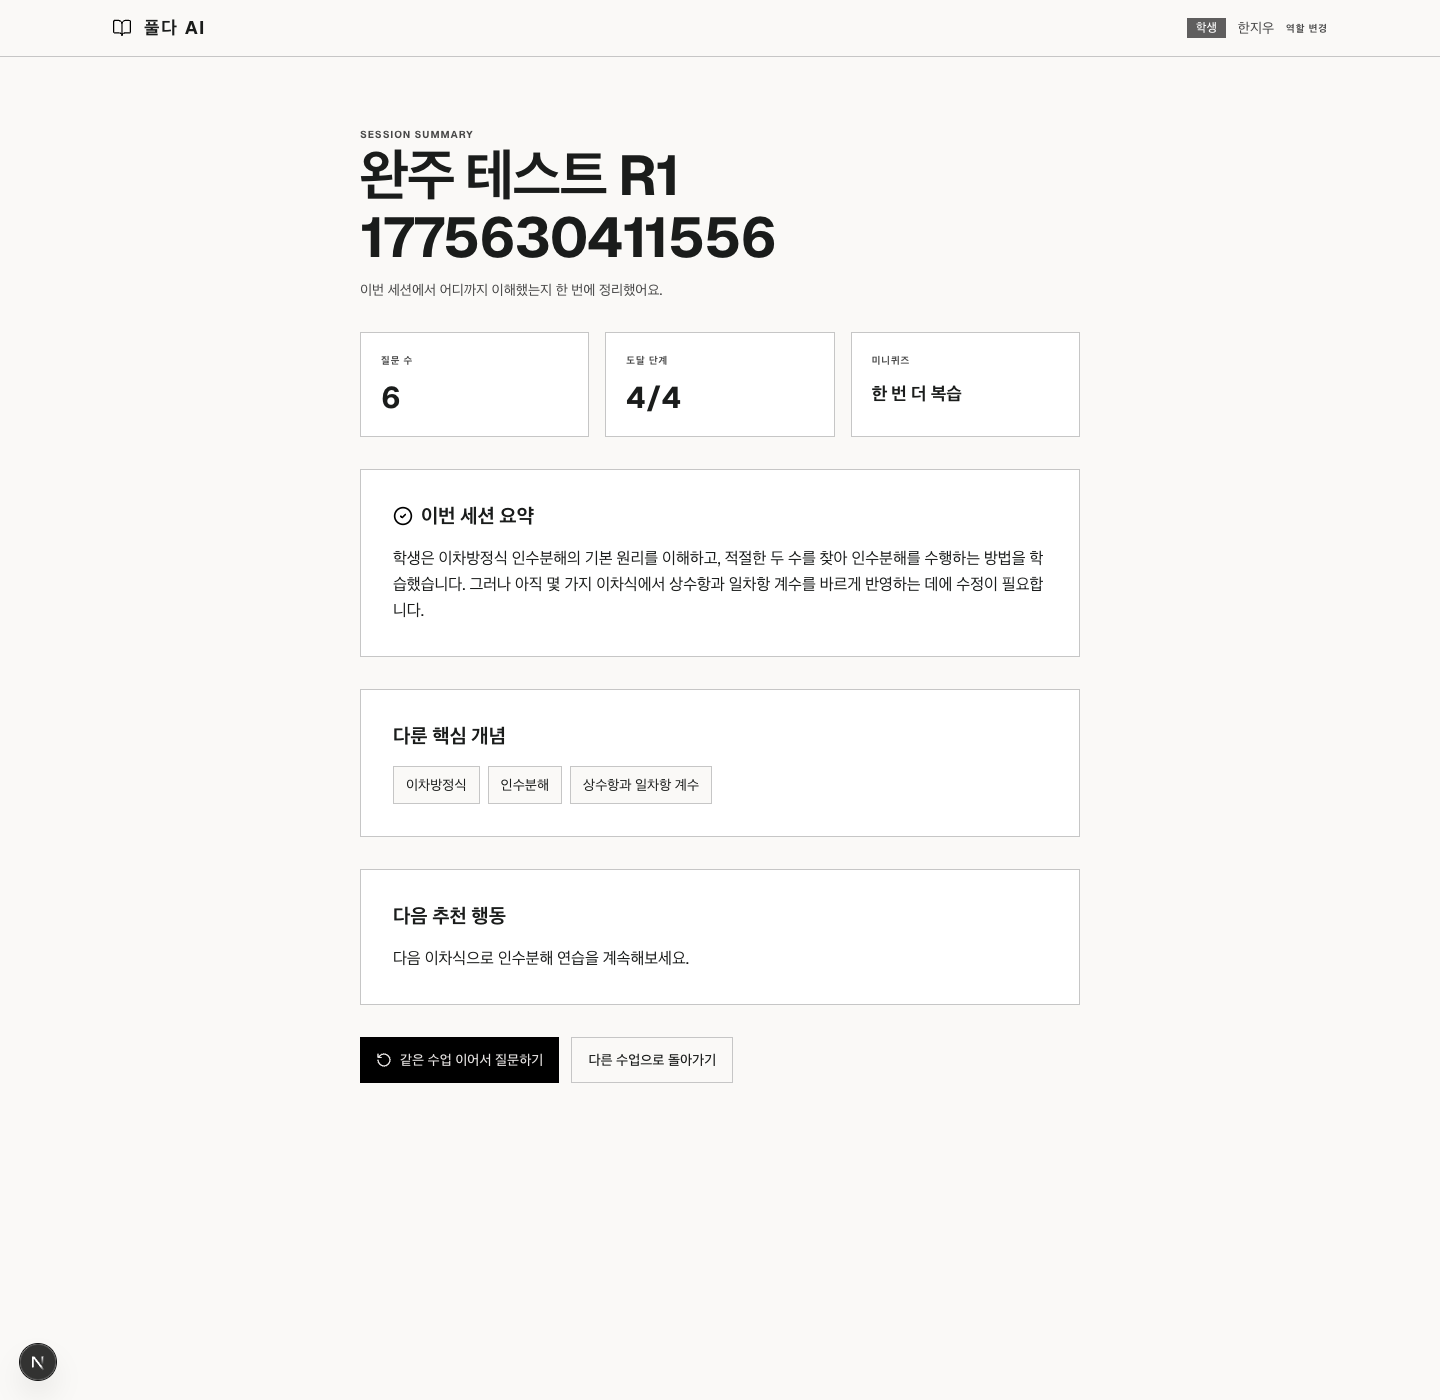
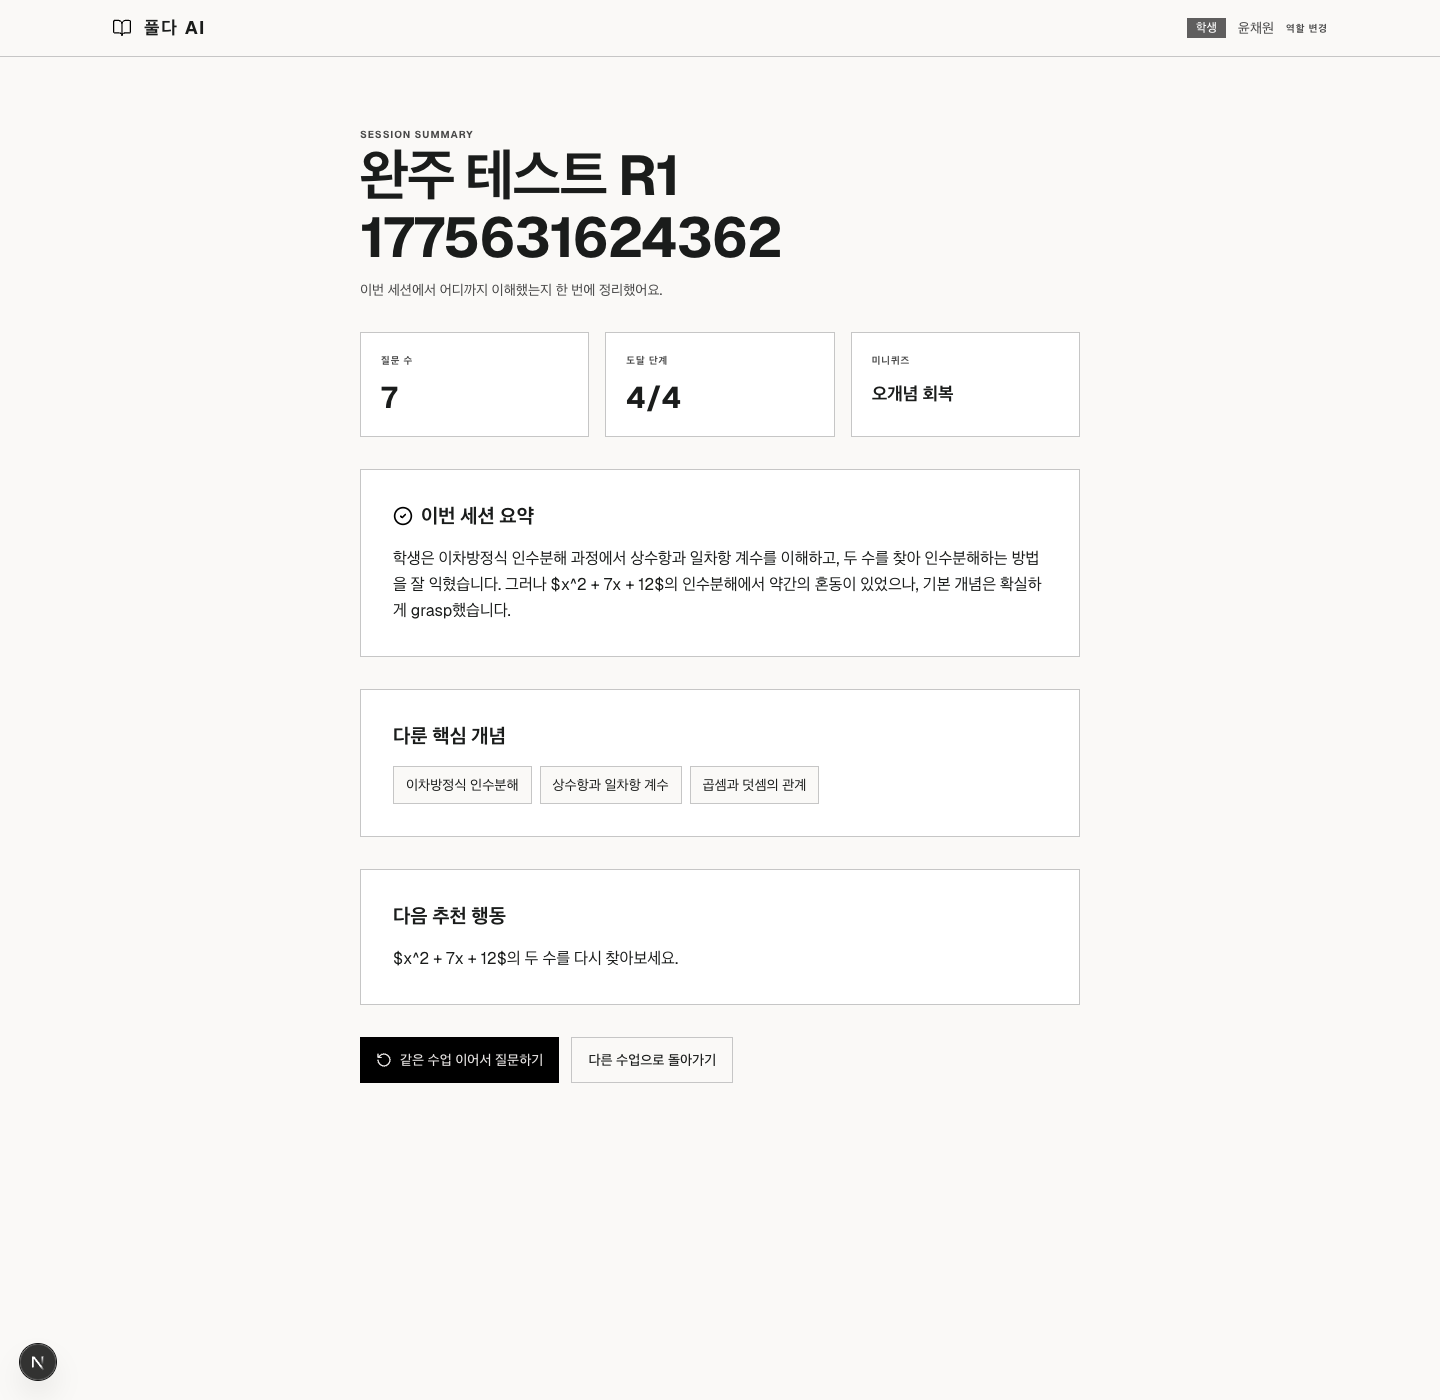
fix: harden ai tag contract

diff --git a/src/utils/parseAiTags.ts b/src/utils/parseAiTags.ts
@@ -7,14 +7,22 @@
  * @access shared
  */
 
-import type { ParsedAiResponse, ChatMode, AnswerCheck } from '@/types';
+import type {
+  ParsedAiResponse,
+  ChatMode,
+  AnswerCheck,
+  RequiredAiTag,
+  AnswerCheckSource,
+} from '@/types';
 
 const VALID_MODES: ChatMode[] = ['grill-me', 'guide-me', 'quick-me'];
 const VALID_ANSWER_CHECKS: AnswerCheck[] = ['correct', 'partial', 'wrong'];
+const STRIP_TAG_PATTERN =
+  /\[(?:RECOMMENDATION|ANSWER_CHECK|MODE_SWITCH|MISCONCEPTION_TYPE|GROUNDED)[^\]]*\](?:\s*추천:\s*"[^"]*")?/g;
 const ANSWER_CHECK_FALLBACK_PATTERNS: Record<AnswerCheck, RegExp[]> = {
-  wrong: [/틀렸/, /아니에요/, /다시 생각/, /조금 달라요/, /아직 아니/, /놓쳤어요/],
-  partial: [/부분적으로/, /조금 더/, /거의 맞/, /방향은 맞/, /한 번 더/, /조금만 더/],
-  correct: [/정확히/, /맞아요/, /맞습니다/, /좋아요/, /잘했어요/, /잘 이해했어요/],
+  wrong: [/틀렸/, /아니에요/, /다시 생각/, /조금 달라요/, /아직 아니/, /놓쳤어요/, /잘못된 것 같/],
+  partial: [/거의 맞/, /부분적으로/, /방향은 맞/, /조금만 더/, /한 번 더/, /작은 실수/],
+  correct: [/^맞아요!?/, /^좋아요!?/, /^정확히/, /^잘 하셨/, /^정확히 이해하셨/],
 };
 
 function inferAnswerCheck(content: string): AnswerCheck | undefined {
@@ -30,6 +38,33 @@ function inferAnswerCheck(content: string): AnswerCheck | undefined {
   return undefined;
 }
 
+function collectMissingRequiredTags(params: {
+  recommendation?: string;
+  answerCheck?: AnswerCheck;
+  hasExplicitAnswerCheck: boolean;
+  hasExplicitGrounded: boolean;
+}): RequiredAiTag[] {
+  const missingTags: RequiredAiTag[] = [];
+
+  if (!params.recommendation) {
+    missingTags.push('recommendation');
+  }
+
+  if (!params.hasExplicitAnswerCheck || !params.answerCheck) {
+    missingTags.push('answerCheck');
+  }
+
+  if (!params.hasExplicitGrounded) {
+    missingTags.push('grounded');
+  }
+
+  return missingTags;
+}
+
+export function stripAiMetadataTags(text: string): string {
+  return text.replace(STRIP_TAG_PATTERN, '').replace(/\n{3,}/g, '\n\n').trim();
+}
+
 /**
  * AI 응답 텍스트에서 태그를 추출하고 본문을 정리
  */
@@ -40,6 +75,9 @@ export function parseAiResponse(text: string): ParsedAiResponse {
   let answerCheck: AnswerCheck | undefined;
   let misconceptionType: number | undefined;
   let grounded = false;
+  let hasExplicitAnswerCheck = false;
+  let hasExplicitGrounded = false;
+  let answerCheckSource: AnswerCheckSource = 'missing';
 
   // [RECOMMENDATION] 추천: "..."
   const recMatch = content.match(/\[RECOMMENDATION\]\s*추천:\s*"([^"]+)"/);
@@ -54,6 +92,8 @@ export function parseAiResponse(text: string): ParsedAiResponse {
     const parsed = answerCheckMatch[1] as AnswerCheck;
     if (VALID_ANSWER_CHECKS.includes(parsed)) {
       answerCheck = parsed;
+      hasExplicitAnswerCheck = true;
+      answerCheckSource = 'explicit';
     }
     content = content.replace(answerCheckMatch[0], '');
   }
@@ -82,22 +122,36 @@ export function parseAiResponse(text: string): ParsedAiResponse {
   const groundedMatch = content.match(/\[GROUNDED:\s*(true|false)\]/);
   if (groundedMatch) {
     grounded = groundedMatch[1] === 'true';
+    hasExplicitGrounded = true;
     content = content.replace(groundedMatch[0], '');
   }
 
-  // 남은 빈 줄 정리
-  content = content.replace(/\n{3,}/g, '\n\n').trim();
+  content = stripAiMetadataTags(content);
 
   if (!answerCheck) {
     answerCheck = inferAnswerCheck(content);
+    if (answerCheck) {
+      answerCheckSource = 'inferred';
+    }
   }
+
+  const missingRequiredTags = collectMissingRequiredTags({
+    recommendation,
+    answerCheck,
+    hasExplicitAnswerCheck,
+    hasExplicitGrounded,
+  });
 
   return {
     content,
     recommendation,
     modeSwitch,
     answerCheck,
+    answerCheckSource,
+    hasExplicitAnswerCheck,
     misconceptionType,
     grounded,
+    hasExplicitGrounded,
+    missingRequiredTags,
   };
 }

diff --git a/src/hooks/useQuestionChat.ts b/src/hooks/useQuestionChat.ts
@@ -18,7 +18,7 @@ import type {
   ChatState,
   ParsedAiResponse,
 } from '@/types/question.types';
-import { parseAiResponse } from '@/utils/parseAiTags';
+import { parseAiResponse, stripAiMetadataTags } from '@/utils/parseAiTags';
 
 interface ModeAlert {
   show: boolean;
@@ -27,8 +27,6 @@ interface ModeAlert {
 }
 
 const INITIAL_MODE_ALERT: ModeAlert = { show: false, from: 'grill-me', to: 'grill-me' };
-const TAG_STRIP_PATTERN =
-  /\[(?:RECOMMENDATION|ANSWER_CHECK|MODE_SWITCH|MISCONCEPTION_TYPE|GROUNDED)[^\]]*\](?:\s*추천:\s*"[^"]*")?/g;
 
 function generateId(): string {
   return `${Date.now()}-${Math.random().toString(36).slice(2, 9)}`;
@@ -74,6 +72,11 @@ function deriveNextChatState(
   let nextStep = prev.currentStep;
   const nextConsecutiveWrong = normalizedConsecutiveWrong;
 
+  const canAdvanceByInferredSignal =
+    parsed.answerCheckSource === 'inferred' &&
+    parsed.answerCheck === 'correct' &&
+    parsed.content.includes('?');
+
   if (prev.mode === 'grill-me' && normalizedConsecutiveWrong >= 3) {
     nextMode = 'guide-me';
   } else if (prev.mode === 'guide-me' && parsed.answerCheck === 'correct') {
@@ -86,7 +89,13 @@ function deriveNextChatState(
     nextMode = parsed.modeSwitch;
   }
 
-  if (prev.mode === 'grill-me' && parsed.answerCheck && parsed.answerCheck !== 'wrong' && nextStep < 4) {
+  if (
+    prev.mode === 'grill-me' &&
+    parsed.answerCheck &&
+    (parsed.hasExplicitAnswerCheck || canAdvanceByInferredSignal) &&
+    parsed.answerCheck !== 'wrong' &&
+    nextStep < 4
+  ) {
     nextStep = prev.currentStep + 1;
   }
 
@@ -379,7 +388,7 @@ export function useQuestionChat(lessonId: string, lessonTitle: string, studentId
           fullText += chunk;
 
           // assistant 메시지 점진 업데이트 (태그는 실시간 필터링)
-          const displayText = fullText.replace(TAG_STRIP_PATTERN, '').trim();
+          const displayText = stripAiMetadataTags(fullText);
           applyState((prev) => ({
             ...prev,
             messages: prev.messages.map((m) =>
@@ -422,7 +431,7 @@ export function useQuestionChat(lessonId: string, lessonTitle: string, studentId
                   content: parsed.content,
                   recommendation: parsed.recommendation,
                   grounded: parsed.grounded,
-                  answerCheck: parsed.answerCheck,
+                  answerCheck: parsed.hasExplicitAnswerCheck ? parsed.answerCheck : undefined,
                   misconceptionType: parsed.misconceptionType,
                   mode: nextTutorState.mode,
                   step: nextTutorState.currentStep,

diff --git a/src/app/api/questions/[id]/respond/route.ts b/src/app/api/questions/[id]/respond/route.ts
@@ -10,7 +10,7 @@
 import { NextRequest } from 'next/server';
 import { after } from 'next/server';
 import { generateTutoringResponse } from '@/lib/ai/generateResponse';
-import { parseAiResponse } from '@/lib/ai/parseAiTags';
+import { parseAiResponse, stripAiMetadataTags } from '@/lib/ai/parseAiTags';
 import { createSupabaseAdmin } from '@/lib/supabase/admin';
 import type { RespondRequestBody } from '@/types';
 
@@ -53,11 +53,18 @@ export async function POST(
         const fullText = await result.text;
         const parsed = parseAiResponse(fullText);
 
+        if (parsed.missingRequiredTags.length > 0) {
+          console.warn('[POST /api/questions/[id]/respond] 태그 누락', {
+            questionId,
+            missingRequiredTags: parsed.missingRequiredTags,
+          });
+        }
+
         const supabase = createSupabaseAdmin();
         await supabase.from('ai_responses').insert({
           question_id: questionId,
           response_type: mode === 'quick-me' ? 'explanation' : 'hint',
-          response_text: fullText,
+          response_text: stripAiMetadataTags(fullText),
           grounded_flag: parsed.grounded,
           misconception_type: parsed.misconceptionType ?? null,
         });

diff --git a/src/types/question.types.ts b/src/types/question.types.ts
@@ -83,6 +83,8 @@ export interface DashboardData {
 
 export type ChatMode = 'grill-me' | 'guide-me' | 'quick-me';
 export type AnswerCheck = 'correct' | 'partial' | 'wrong';
+export type RequiredAiTag = 'recommendation' | 'answerCheck' | 'grounded';
+export type AnswerCheckSource = 'explicit' | 'inferred' | 'missing';
 
 /** AI 응답 태그 파싱 결과 */
 export interface ParsedAiResponse {
@@ -90,8 +92,12 @@ export interface ParsedAiResponse {
   recommendation?: string;
   modeSwitch?: ChatMode;
   answerCheck?: AnswerCheck;
+  answerCheckSource: AnswerCheckSource;
+  hasExplicitAnswerCheck: boolean;
   misconceptionType?: number;
   grounded: boolean;
+  hasExplicitGrounded: boolean;
+  missingRequiredTags: RequiredAiTag[];
 }
 
 /** 채팅 메시지 (클라이언트 상태용) */

diff --git a/src/app/api/sessions/[id]/summary/route.ts b/src/app/api/sessions/[id]/summary/route.ts
@@ -6,6 +6,7 @@
  */
 
 import { NextRequest, NextResponse } from 'next/server';
+import { stripAiMetadataTags } from '@/lib/ai/parseAiTags';
 import { createSupabaseAdmin } from '@/lib/supabase/admin';
 import { generateSessionSummary } from '@/lib/ai/generateSessionSummary';
 import { getSessionById, getSessionTranscript, getLatestQuestionBySession, updateSession } from '@/lib/actions/sessions';
@@ -22,7 +23,9 @@ function buildSessionLog(
       ];
 
       if (row.response_text) {
-        parts.push(`AI 응답(${row.response_type ?? 'unknown'}): ${row.response_text}`);
+        parts.push(
+          `AI 응답(${row.response_type ?? 'unknown'}): ${stripAiMetadataTags(row.response_text)}`,
+        );
       }
 
       return parts.join('\n');

diff --git a/src/app/api/sessions/[id]/quiz/route.ts b/src/app/api/sessions/[id]/quiz/route.ts
@@ -6,6 +6,7 @@
  */
 
 import { NextRequest, NextResponse } from 'next/server';
+import { stripAiMetadataTags } from '@/lib/ai/parseAiTags';
 import { createSupabaseAdmin } from '@/lib/supabase/admin';
 import { generateMiniQuiz } from '@/lib/ai/generateMiniQuiz';
 import { retrieveContext } from '@/lib/rag/search';
@@ -32,7 +33,9 @@ function buildSessionLog(
       }
 
       if (row.response_text) {
-        parts.push(`AI 응답(${row.response_type ?? 'unknown'}): ${row.response_text}`);
+        parts.push(
+          `AI 응답(${row.response_type ?? 'unknown'}): ${stripAiMetadataTags(row.response_text)}`,
+        );
       }
 
       return parts.join('\n');

diff --git a/src/types/index.ts b/src/types/index.ts
@@ -12,6 +12,8 @@ export type { Lesson, LessonMaterial, UploadStatus, UploadFile } from '@/types/l
 export type { Session, CreateSessionRequestBody, UpdateSessionRequestBody } from '@/types/session.types';
 export type {
   AnswerCheck,
+  AnswerCheckSource,
+  RequiredAiTag,
   IntentType,
   ResponseType,
   StudentQuestion,

diff --git a/src/lib/ai/parseAiTags.ts b/src/lib/ai/parseAiTags.ts
@@ -5,4 +5,4 @@
  * @access server-only
  */
 
-export { parseAiResponse } from '@/utils/parseAiTags';
+export { parseAiResponse, stripAiMetadataTags } from '@/utils/parseAiTags';

diff --git a/docs/status/EXECUTION-CHECKLIST.md b/docs/status/EXECUTION-CHECKLIST.md
@@ -98,6 +98,14 @@
 - [x] self-review 기록
 - [x] commit
 
+## Phase 8. 태그 계약 하드닝
+
+- [x] `ANSWER_CHECK` fallback 보수화
+- [x] 태그 누락 런타임 감지
+- [x] quiz / summary transcript 태그 제거
+- [x] 검증
+- [x] commit
+
 ## Self-review Log
 
 ### Phase 1
@@ -144,3 +152,10 @@
 - 브라우저 재완주 중 이미지 업로드가 끝나기 전 새 질문이 들어갈 수 있는 재진입 틈을 발견했고, `isStreaming`을 업로드 시작 시점에 먼저 올려 질문 순서 역전을 막음
 - 최신 재완주 러닝 `완주 테스트 R1 1775630411556`에서 `student_questions` 6건이 모두 동일 `session_id`를 가지는 것을 원격 SQL로 확인함
 - 같은 러닝에서 `sessions.current_step = 4`, `quiz_question` 존재, `summary_text` 존재, `/student/summary` 진입, 대시보드 API 집계를 모두 확인해 문서상의 차단 경로가 해소됐음을 검증함
+
+### Phase 8
+
+- `ANSWER_CHECK` fallback을 완전히 제거하면 실제 완주가 `2/4`에서 멈췄고, 반대로 낙관적 칭찬 문구 전체를 허용하면 단계가 과하게 빨라질 수 있음을 확인함
+- 그래서 fallback은 `강한 긍정 신호 + 질문형 grill-me 응답`일 때만 제한적으로 단계 상승을 허용하고, 그 외에는 로그로 태그 누락을 드러내는 절충안으로 잠금
+- `ai_responses.response_text` 저장 시점과 quiz/summary transcript 생성 시점 모두에서 메타 태그를 제거해 후속 프롬프트 오염 경로를 닫음
+- 최신 재검증 러닝 `완주 테스트 R1 1775631624362`에서 `current_step = 4`, `has_quiz_question = true`, `has_summary_text = true`, `null session_id count = 0`를 확인해 보수화 후에도 완주가 유지됨을 검증함

diff --git a/docs/status/PROJECT-STATUS.md b/docs/status/PROJECT-STATUS.md
@@ -19,6 +19,13 @@
 상세 결과: `docs/qa/QA-FULL-RUN-2026-04-08.md`
 해결 계획: `docs/status/REMEDIATION-PLAN-2026-04-08.md`
 
+## 2026-04-08 태그 계약 하드닝
+
+- `ANSWER_CHECK` fallback을 보수적으로 줄여, 태그 없는 칭찬 문구만으로 단계가 오르지 않게 조정
+- 태그 필수 계약 위반 시 `[POST /api/questions/[id]/respond] 태그 누락` 경고 로그를 남기도록 보강
+- `ai_responses.response_text` 저장과 quiz/summary transcript 생성 시 메타 태그를 제거해 후속 프롬프트 오염을 방지
+- 보수화 후 재완주 러닝 `완주 테스트 R1 1775631624362`도 `current_step = 4`, `quiz_question`, `summary_text`까지 유지됨을 재검증
+
 ## 2026-04-08 원격 스키마 감사 + 구현 잠금
 
 실제 원격 Supabase `public` 스키마를 `rest/v1` OpenAPI와 transaction pooler SQL 조회로 재확인했다.
